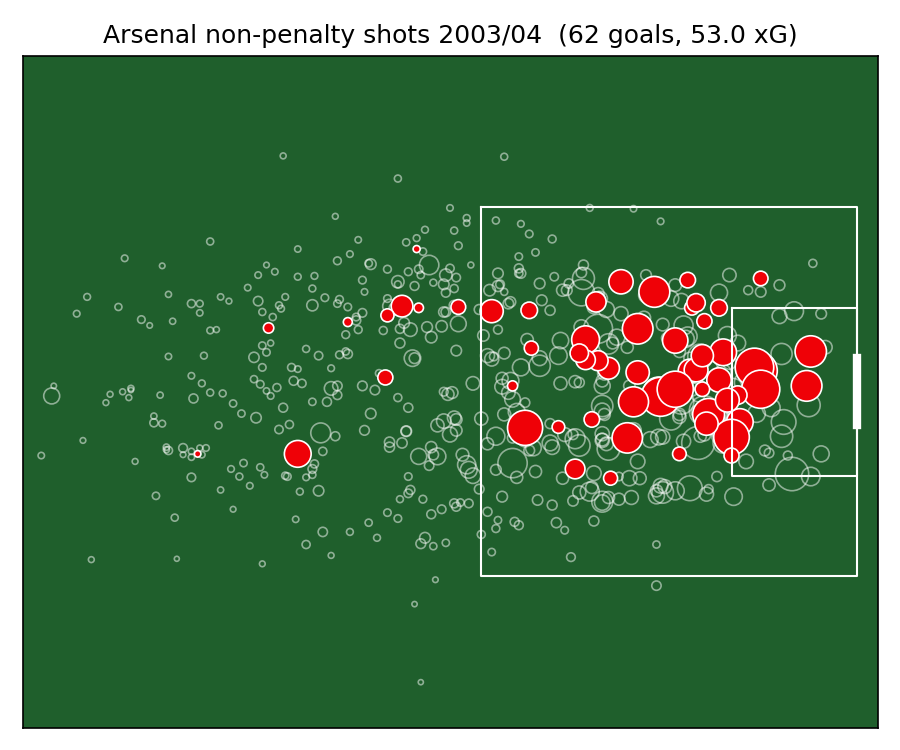
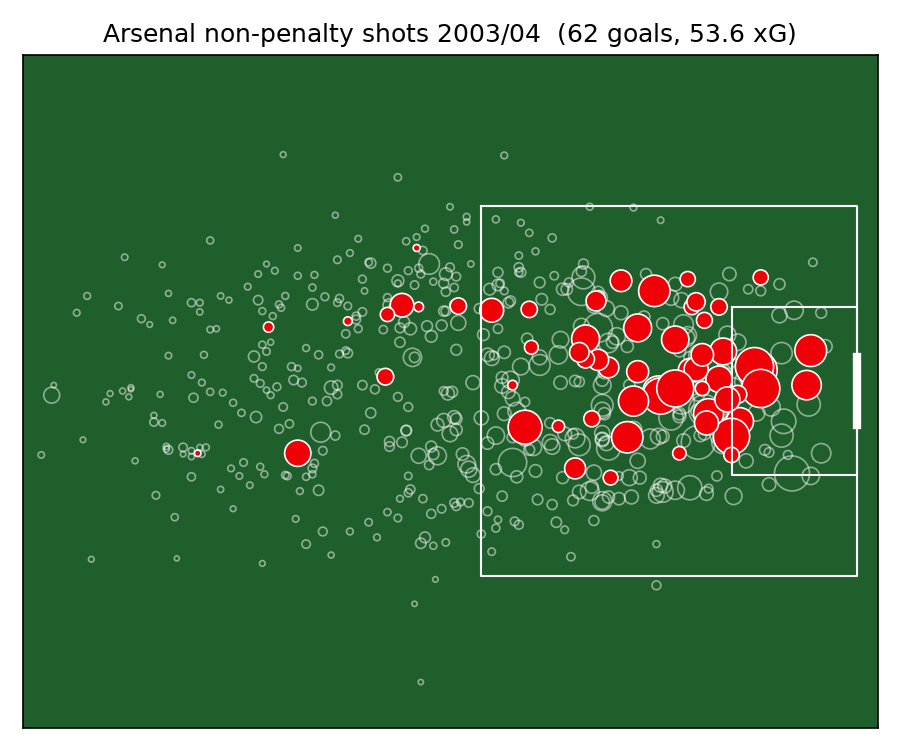
Run full pipeline on real data: results, figures, findings report

diff --git a/src/build_db.py b/src/build_db.py
@@ -1,28 +1,54 @@
-"""Combine the raw season CSVs into one SQLite table: data/processed/epl.db -> matches."""
+"""Combine the raw season CSVs into one SQLite table: data/processed/epl.db -> matches.
+
+Some football-data.co.uk files (e.g. 2003/04, 2004/05) have rows with more commas than the
+header. pandas would skip those rows, silently losing matches, so each file is read with the
+csv module and every row is trimmed or padded to the header length.
+"""
+import csv
 import glob
 import re
 import sqlite3
 
 import pandas as pd
 
-frames = []
-for f in sorted(glob.glob("data/raw/fd/E0_*.csv")):
-    season = re.search(r"E0_(\d{4})", f).group(1)
-    df = pd.read_csv(f, encoding="latin-1", on_bad_lines="skip").dropna(how="all")
-    df = df.dropna(subset=["HomeTeam", "AwayTeam"])
-    df["season"] = season
-    df["Date"] = pd.to_datetime(df["Date"], dayfirst=True, errors="coerce")
-    frames.append(df)
-
-matches = pd.concat(frames, ignore_index=True)
-
-# keep a core set of columns (odds columns vary by season)
-core = ["season", "Date", "HomeTeam", "AwayTeam", "FTHG", "FTAG", "FTR",
+CORE = ["season", "Date", "HomeTeam", "AwayTeam", "FTHG", "FTAG", "FTR",
         "HS", "AS", "HST", "AST", "HF", "AF", "HC", "AC", "HY", "AY", "HR", "AR",
         "Referee", "B365H", "B365D", "B365A",
         "PSH", "PSD", "PSA",  # Pinnacle (from 2012/13): a sharper market than Bet365
         "WHH", "WHD", "WHA"]  # William Hill: fallback for early seasons
-matches = matches[[c for c in core if c in matches.columns]]
+
+
+def read_season(path: str) -> pd.DataFrame:
+    with open(path, encoding="latin-1", newline="") as fh:
+        rows = list(csv.reader(fh))
+    header = [h.strip() for h in rows[0]]
+    while header and header[-1] == "":  # trailing empty header cells
+        header.pop()
+    n = len(header)
+    body = [(r + [""] * n)[:n] for r in rows[1:] if any(cell.strip() for cell in r)]
+    df = pd.DataFrame(body, columns=header).replace("", None)
+    return df.dropna(subset=["HomeTeam", "AwayTeam"])
+
+
+def parse_dates(s: pd.Series) -> pd.Series:
+    """Early seasons use dd/mm/yy, later ones dd/mm/yyyy."""
+    long = pd.to_datetime(s, format="%d/%m/%Y", errors="coerce")
+    short = pd.to_datetime(s, format="%d/%m/%y", errors="coerce")
+    return long.fillna(short)
+
+
+frames = []
+for f in sorted(glob.glob("data/raw/fd/E0_*.csv")):
+    season = re.search(r"E0_(\d{4})", f).group(1)
+    df = read_season(f)
+    df = df[[c for c in CORE if c in df.columns]].copy()
+    df["season"] = season
+    df["Date"] = parse_dates(df["Date"])
+    frames.append(df)
+    print(f"{season}: {len(df)} matches")
+
+matches = pd.concat(frames, ignore_index=True)
+matches = matches[[c for c in CORE if c in matches.columns]]
 matches.columns = [c.lower() for c in matches.columns]
 matches = matches.sort_values(["date", "hometeam"]).reset_index(drop=True)
 matches.insert(0, "match_id", matches.index + 1)

diff --git a/reports/arsenal_findings.md b/reports/arsenal_findings.md
@@ -1,0 +1,102 @@
+# Findings (auto-generated by `src/arsenal.py`)
+
+Numbers here are regenerated on every run of `python run_all.py`.
+
+## 1. Can a model beat the betting market?
+
+| model                        | sample     |    n |   log_loss |   brier |    rps |   accuracy |
+|:-----------------------------|:-----------|-----:|-----------:|--------:|-------:|-----------:|
+| market_b365_power            | common     | 7980 |     0.9585 |  0.5685 | 0.1936 |     0.5477 |
+| market_b365_proportional     | common     | 7980 |     0.959  |  0.5688 | 0.1938 |     0.5477 |
+| elo_logit                    | common     | 7980 |     0.9732 |  0.5783 | 0.1981 |     0.5366 |
+| xgb                          | common     | 7980 |     0.9764 |  0.5802 | 0.1984 |     0.5358 |
+| full_logit                   | common     | 7980 |     0.9773 |  0.5807 | 0.1985 |     0.5356 |
+| base_rates                   | common     | 7980 |     1.0643 |  0.643  | 0.2294 |     0.4556 |
+| market_pinnacle_power        | own subset | 5150 |     0.9552 |  0.5652 | 0.1939 |     0.5515 |
+| market_pinnacle_proportional | own subset | 5150 |     0.9553 |  0.5654 | 0.1939 |     0.5515 |
+| stacked                      | own subset | 7220 |     0.962  |  0.5701 | 0.1941 |     0.5456 |
+
+Log-loss gap vs market (negative = model better), 95% bootstrap CI:
+
+| model      | vs                    |    n |   mean_logloss_gap |   ci_low |   ci_high | verdict       |
+|:-----------|:----------------------|-----:|-------------------:|---------:|----------:|:--------------|
+| xgb        | market_b365_power     | 7980 |             0.0179 |   0.0141 |    0.022  | market better |
+| full_logit | market_b365_power     | 7980 |             0.0188 |   0.0146 |    0.0234 | market better |
+| elo_logit  | market_b365_power     | 7980 |             0.0147 |   0.011  |    0.0183 | market better |
+| stacked    | market_b365_power     | 7220 |             0.0029 |   0.0009 |    0.0048 | market better |
+| xgb        | market_pinnacle_power | 5150 |             0.0194 |   0.0146 |    0.0241 | market better |
+| full_logit | market_pinnacle_power | 5150 |             0.0186 |   0.0136 |    0.0237 | market better |
+| elo_logit  | market_pinnacle_power | 5150 |             0.0179 |   0.0132 |    0.0228 | market better |
+| stacked    | market_pinnacle_power | 5150 |             0.0026 |   0.0009 |    0.0043 | market better |
+
+Flat-stake betting simulation at Bet365 prices:
+
+| model   |   min_edge |   bets |   profit_units |    roi |   roi_ci_low |   roi_ci_high |
+|:--------|-----------:|-------:|---------------:|-------:|-------------:|--------------:|
+| xgb     |       0    |   9108 |        -830.15 | -0.091 |       -0.129 |        -0.052 |
+| xgb     |       0.02 |   8015 |        -698.8  | -0.087 |       -0.127 |        -0.045 |
+| xgb     |       0.05 |   6624 |        -613.44 | -0.093 |       -0.138 |        -0.049 |
+| xgb     |       0.1  |   4857 |        -452.52 | -0.093 |       -0.153 |        -0.029 |
+| xgb     |       0.15 |   3637 |        -344.81 | -0.095 |       -0.165 |        -0.018 |
+
+## 2. Arsenal: points vs expectation by era
+
+| era                  |   matches |   ppg |   xppg_mkt |   over_per_38 |   z_shot_volume |   z_finishing |   z_suppression |   z_shot_stopping |
+|:---------------------|----------:|------:|-----------:|--------------:|----------------:|--------------:|----------------:|------------------:|
+| Wenger I (Highbury)  |       228 |  2.08 |       2    |          3.05 |            1.65 |          1.05 |            1.84 |             -0.52 |
+| Wenger II (Emirates) |       456 |  1.91 |       1.94 |         -1.02 |            1.27 |          0.57 |            1.04 |              0.13 |
+| Emery                |        55 |  1.67 |       1.75 |         -3.09 |            0.12 |          1.92 |           -0.48 |              0.92 |
+| Arteta               |       249 |  1.99 |       1.89 |          3.74 |            0.52 |          1.19 |            1.19 |              0.52 |
+
+Biggest over-performance: **2001/02** (87 pts vs 72.0 market xPts). Biggest under-performance: **2010/11** (68 pts vs 76.4).
+
+## 3. Season-by-season diagnosis
+
+|   season | era                  |   position |   pts |   xpts_mkt |   over_mkt |   z_shot_volume |   z_finishing |   z_suppression |   z_shot_stopping |
+|---------:|:---------------------|-----------:|------:|-----------:|-----------:|----------------:|--------------:|----------------:|------------------:|
+|     0001 | Wenger I (Highbury)  |          2 |    70 |      72.51 |      -2.51 |            2.3  |         -0.88 |            1.89 |             -1.28 |
+|     0102 | Wenger I (Highbury)  |          1 |    87 |      71.96 |      15.04 |            1.9  |          0.95 |            2.66 |             -1.55 |
+|     0203 | Wenger I (Highbury)  |          2 |    78 |      77.16 |       0.84 |            1.65 |          1.72 |            1.92 |             -1.2  |
+|     0304 | Wenger I (Highbury)  |          1 |    90 |      78.24 |      11.76 |            0.91 |          1.72 |            1.69 |              1.48 |
+|     0405 | Wenger I (Highbury)  |          2 |    83 |      79.69 |       3.31 |            1.57 |          2.13 |            1.52 |             -1.16 |
+|     0506 | Wenger I (Highbury)  |          4 |    67 |      75.15 |      -8.15 |            1.56 |          0.66 |            1.39 |              0.57 |
+|     0607 | Wenger II (Emirates) |          4 |    68 |      74.63 |      -6.63 |            1.3  |          0.37 |            1.25 |             -0    |
+|     0708 | Wenger II (Emirates) |          3 |    83 |      77.08 |       5.92 |            1.11 |          1.1  |            1.33 |              0.86 |
+|     0809 | Wenger II (Emirates) |          4 |    72 |      73.1  |      -1.1  |            1.18 |          0.67 |            1.46 |             -0.47 |
+|     0910 | Wenger II (Emirates) |          3 |    75 |      77.78 |      -2.78 |            1.19 |          1.3  |            1.59 |             -0.67 |
+|     1011 | Wenger II (Emirates) |          4 |    68 |      76.45 |      -8.45 |            1.7  |          0.14 |            1.61 |             -0.85 |
+|     1112 | Wenger II (Emirates) |          3 |    70 |      70.81 |      -0.81 |            1.16 |          0.7  |            1.69 |             -1.73 |
+|     1213 | Wenger II (Emirates) |          4 |    73 |      70.78 |       2.22 |            0.89 |          0.73 |            1.4  |              0.3  |
+|     1314 | Wenger II (Emirates) |          4 |    79 |      72.31 |       6.69 |            1    |          0.38 |            0.44 |              1.09 |
+|     1415 | Wenger II (Emirates) |          3 |    75 |      72.46 |       2.54 |            2.07 |          0.25 |            1.05 |              0.72 |
+|     1516 | Wenger II (Emirates) |          2 |    71 |      74.62 |      -3.62 |            1.31 |         -0.2  |            0.38 |              1.58 |
+|     1617 | Wenger II (Emirates) |          5 |    75 |      74.19 |       0.81 |            0.8  |          1.36 |           -0.06 |              1.29 |
+|     1718 | Wenger II (Emirates) |          6 |    63 |      70.02 |      -7.02 |            1.56 |          0.08 |            0.33 |             -0.5  |
+|     1819 | Emery                |          5 |    70 |      67.11 |       2.89 |            0.12 |          1.92 |           -0.48 |              0.92 |
+|     1920 | Arteta               |          8 |    56 |      61.29 |      -5.29 |           -0.27 |          1.2  |           -0.99 |              1.48 |
+|     2021 | Arteta               |          8 |    61 |      61.06 |      -0.06 |           -0.34 |          1    |            0.89 |              0.54 |
+|     2122 | Arteta               |          5 |    69 |      63.77 |       5.23 |            0.74 |         -0.05 |            0.57 |             -0.29 |
+|     2223 | Arteta               |          2 |    84 |      74.65 |       9.35 |            1.05 |          1.96 |            1.09 |              0.15 |
+|     2324 | Arteta               |          2 |    89 |      81.83 |       7.17 |            0.95 |          1.49 |            2.29 |             -0.05 |
+|     2425 | Arteta               |          2 |    74 |      77.81 |      -3.81 |            0.46 |          1.15 |            1.64 |              0.83 |
+|     2526 | Arteta               |          1 |    85 |      80.43 |       4.57 |            1.03 |          1.54 |            2.8  |              0.99 |
+
+## 4. xG model (StatsBomb shots)
+
+| model                             |   log_loss |   brier |    auc |   total_xg |   actual_goals |
+|:----------------------------------|-----------:|--------:|-------:|-----------:|---------------:|
+| Logistic regression               |     0.2544 |  0.0716 | 0.8117 |    1082.23 |           1082 |
+| XGBoost                           |     0.264  |  0.0744 | 0.7925 |    1083.43 |           1082 |
+| StatsBomb xG (benchmark)          |     0.2513 |  0.0703 | 0.8163 |    1063.14 |           1082 |
+| Baseline (league conversion rate) |     0.3247 |  0.0899 | 0.5    |    1082    |           1082 |
+
+Arsenal xG, the two seasons with event data:
+
+|   season |   matches |   xg_for_pg |   goals_for_pg |   xg_against_pg |   goals_against_pg |   finishing_over_xg |   conceded_under_xg |
+|---------:|----------:|------------:|---------------:|----------------:|-------------------:|--------------------:|--------------------:|
+|     0304 |        38 |        1.56 |           1.92 |            0.78 |               0.68 |               13.7  |                3.62 |
+|     1516 |        38 |        1.87 |           1.71 |            0.91 |               0.95 |               -6.05 |               -1.49 |
+
+![points](figures/arsenal_points_vs_xpts.png)
+![diagnosis](figures/arsenal_diagnosis_heatmap.png)
+![elo](figures/arsenal_elo.png)

diff --git a/README.md b/README.md
@@ -1,4 +1,4 @@
-# Arsenal Under the Hood
+# Arsenal Under the Hood
 
 **Match prediction and performance diagnosis in the Premier League, 2000/01 to 2025/26.**
 
@@ -13,7 +13,7 @@ Two questions:
 
 | Piece | What it does |
 |---|---|
-| Two data sources at different granularity | 9,800+ matches (football-data.co.uk) plus ~10,800 individual shots with coordinates (StatsBomb), joined in SQLite |
+| Two data sources at different granularity | 9,880 matches (football-data.co.uk) plus ~10,800 individual shots with coordinates (StatsBomb), joined in SQLite |
 | SQL modelling layer | `team_matches`, `season_table` and `arsenal_seasons` views ([sql/02_views.sql](sql/02_views.sql)) |
 | Custom Elo | Home advantage, margin-of-victory multiplier, between-season regression to the mean, promoted clubs seeded from relegated ones; parameters tuned on 2001-2005 only |
 | xG model from raw shots | Shot geometry plus context, logistic regression vs XGBoost, cross-validated by match, benchmarked against StatsBomb's own xG |
@@ -33,27 +33,60 @@ Two questions:
 | StatsBomb xG (industry benchmark) | 0.2513 | 0.0703 | 0.816 |
 | Baseline (league conversion rate) | 0.3247 | 0.0899 | 0.500 |
 
-A well-specified logistic regression on shot geometry gets within about 1.3% (log loss) of StatsBomb's commercial model, and it **beats XGBoost**. With ~10k shots the trees overfit even when shallow and heavily regularised. The pipeline picks whichever model wins out-of-fold.
+A well-specified logistic regression on shot geometry gets within about 1.3% (log loss) of StatsBomb's commercial model, and it **beats XGBoost**. With ~10k shots the trees overfit even when shallow and heavily regularised. The pipeline picks whichever model wins out-of-fold. Exact values for each run are in `reports/arsenal_findings.md`.
 
 | Arsenal | xG for / game | Goals / game | xG against / game | Conceded / game |
 |---|---|---|---|---|
-| 2003/04 (Invincibles) | 1.52 | 1.92 | 0.83 | 0.68 |
-| 2015/16 | 1.79 | 1.71 | 0.91 | 0.95 |
+| 2003/04 (Invincibles) | 1.56 | 1.92 | 0.78 | 0.68 |
+| 2015/16 | 1.87 | 1.71 | 0.91 | 0.95 |
 
-The Invincibles scored about 15 more goals than their chances were worth and conceded about 5 fewer. The 2015/16 side actually created *more* (1.79 xG a game) but finished below expectation. That season they came 2nd, 10 points behind Leicester.
+The Invincibles scored about 14 more goals than their chances were worth and conceded about 4 fewer. The 2015/16 side actually created *more* (1.87 xG a game) but finished below expectation. That season they came 2nd, 10 points behind Leicester.
 
 ![xG calibration](reports/figures/xg_calibration.png) ![Invincibles shot map](reports/figures/arsenal_shotmap_0304.png)
 
-### Model vs market, and Arsenal by era
+### Can a model beat the betting market? No.
 
-These are generated by `python run_all.py` into [reports/arsenal_findings.md](reports/arsenal_findings.md), along with the charts below. After your first run, paste the headline numbers here.
+Walk-forward predictions for every match from 2005/06 to 2025/26, compared on the same matches (full tables in [reports/arsenal_findings.md](reports/arsenal_findings.md)).
+
+| Model | vs | Log-loss gap (95% CI) | Verdict |
+|---|---|---|---|
+| XGBoost | Pinnacle | +0.019 (0.015 to 0.024) | market better |
+| Full logistic | Pinnacle | +0.019 (0.014 to 0.024) | market better |
+| Elo-only logistic | Pinnacle | +0.018 (0.013 to 0.023) | market better |
+| Model + market stacked | Pinnacle | +0.003 (0.001 to 0.004) | market better |
+| Model + market stacked | Bet365 | +0.003 (0.001 to 0.005) | market better |
+
+- Every model is significantly worse than the market. Bookmaker odds already contain everything that public match statistics and Elo can tell you.
+- **Stacking** the model on top of the market makes it slightly *worse*, so the model adds no information the market hasn't already priced in.
+- **Betting** 1 unit at Bet365 prices whenever the model saw an edge loses about 9% per bet at every threshold. Even the most selective strategy (edge > 15%, 3,637 bets) has an ROI CI of -16.5% to -1.8%.
+- The Elo-only model does slightly *better* than the full feature set (a smaller gap to the market). Rolling form and shot statistics add noise, not signal, beyond a good team-strength rating.
+
+![betting](reports/figures/betting_curve.png)
+
+### Arsenal: who beat expectations, and why?
+
+Over-performance is actual points minus market expected points, per 38 games. The diagnosis columns are z-scores against the rest of the league (positive = better than average).
+
+| Era | Matches | Pts/game | Market xPts/game | **vs market per 38** | Shot volume | Finishing | Suppression | Shot stopping |
+|---|---|---|---|---|---|---|---|---|
+| Wenger I (Highbury) | 228 | 2.08 | 2.00 | **+3.1** | 1.65 | 1.05 | 1.84 | -0.52 |
+| Wenger II (Emirates) | 456 | 1.91 | 1.94 | **-1.0** | 1.27 | 0.57 | 1.04 | 0.13 |
+| Emery | 55 | 1.67 | 1.75 | **-3.1** | 0.12 | 1.92 | -0.48 | 0.92 |
+| Arteta | 249 | 1.99 | 1.89 | **+3.7** | 0.52 | 1.19 | 1.19 | 0.52 |
+
+- **Wenger I** beat expectations by dominating territory. They had the best shot volume and shot suppression of any era, even though the goalkeeping was below the league average.
+- **Wenger II** was good at everything and elite at nothing, and landed slightly below what the market expected.
+- **Emery** is the warning sign. The team conceded more shots on target than the average side (the only negative suppression score), and it was propped up by finishing nearly 2 standard deviations above average, which rarely lasts.
+- **Arteta** is the biggest over-performer. It's the most balanced profile: above average in all four areas, built on defence (suppression +1.19) rather than volume.
+
+![points](reports/figures/arsenal_points_vs_xpts.png)
+![diagnosis](reports/figures/arsenal_diagnosis_heatmap.png)
+![elo](reports/figures/arsenal_elo.png)
 
 ## Data sources and credits
 
 - **[football-data.co.uk](https://www.football-data.co.uk/englandm.php)**: Premier League results, match statistics and bookmaker odds (Bet365, Pinnacle, William Hill), 2000/01 to 2025/26. Data courtesy of football-data.co.uk.
-- **[StatsBomb Open Data](https://github.com/statsbomb/open-data)**: event data used for the xG model. Premier League coverage is 2015/16 (all 380 matches) and 2003/04 (Arsenal's 38 matches only). Data provided by StatsBomb.
-
-  ![StatsBomb logo](https://github.com/statsbomb/open-data/raw/master/img/SB%20-%20Icon%20Lockup%20-%20Colour%20positive.png)
+- **[StatsBomb Open Data](https://github.com/statsbomb/open-data)**: event data used for the xG model. Premier League coverage is 2015/16 (all 380 matches) and 2003/04 (Arsenal's 38 matches only). Data provided by StatsBomb, used under the [StatsBomb Open Data licence](https://github.com/statsbomb/open-data/blob/master/LICENSE.pdf).
 
 No data in this project is synthetic. Raw data is downloaded by the scripts and not committed.
 
